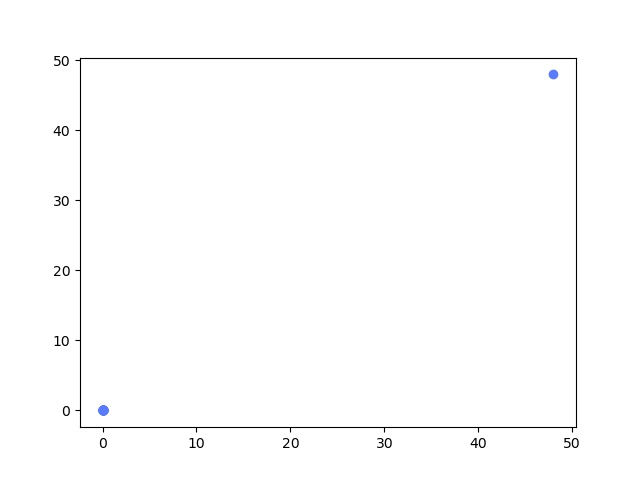
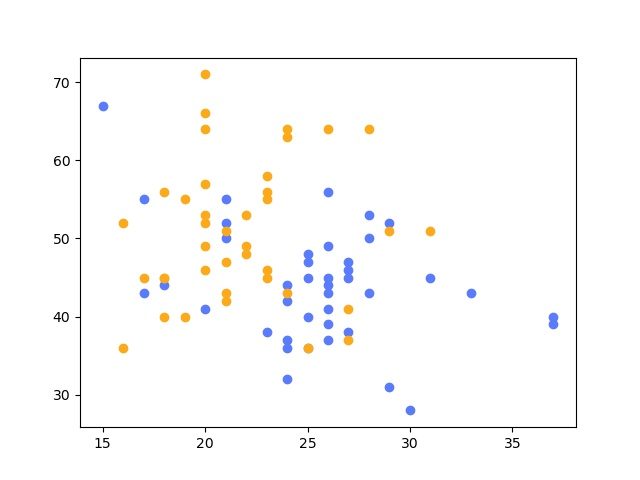
fix bug in plotting function

diff --git a/classification.py b/classification.py
@@ -106,28 +106,28 @@ def cs_p2(contrast_subgraph, summary_A, summary_B, test_A, test_B):
     return predictions_A, predictions_B
 
 def plot_cs_p1(cs_a_b, cs_b_a, graphs_A, graphs_B):
-    induced_by_a_b = induced_by_b_a = np.zeros(graphs_A.shape[0])
+
+    induced_by_a_b = np.zeros(graphs_A.shape[0])
+    induced_by_b_a = np.zeros(graphs_A.shape[0])
     i = 0
     for graph in graphs_A:
-        print(graph.shape, cs_a_b.shape, cs_b_a.shape)
         induced_by_a_b[i] = utils.contrast_subgraph_overlap(graph, cs_a_b)
         induced_by_b_a[i] = utils.contrast_subgraph_overlap(graph, cs_b_a)
-    
-    print(induced_by_a_b, induced_by_b_a)
+        i +=1
+
     fig, ax = plt.subplots()
     ax.scatter(induced_by_a_b, induced_by_b_a, c="#5a7bfc")
 
-    # ax.set(xlim=(0, 8), xticks=np.arange(1, 8),
-    #     ylim=(0, 8), yticks=np.arange(1, 8))
-
+    induced_by_a_b = np.zeros(graphs_B.shape[0])
+    induced_by_b_a = np.zeros(graphs_B.shape[0])
+    i = 0
+    for graph in graphs_B:
+        induced_by_a_b[i] = utils.contrast_subgraph_overlap(graph, cs_a_b)
+        induced_by_b_a[i] = utils.contrast_subgraph_overlap(graph, cs_b_a)
+        i +=1
+    
+    ax.scatter(induced_by_a_b, induced_by_b_a, c="#fcaa1b")
     plt.savefig("plot.jpg")
-    # i = 0
-    # for graph in test_B:
-    #     a_similarity = utils.contrast_subgraph_overlap(graph, cs_a_b)
-    #     b_similarity = utils.contrast_subgraph_overlap(graph, cs_b_a)
-    #     if b_similarity > a_similarity:
-    #         predictions_B[i] = 1
-    #     i += 1
 
 
 def main():
